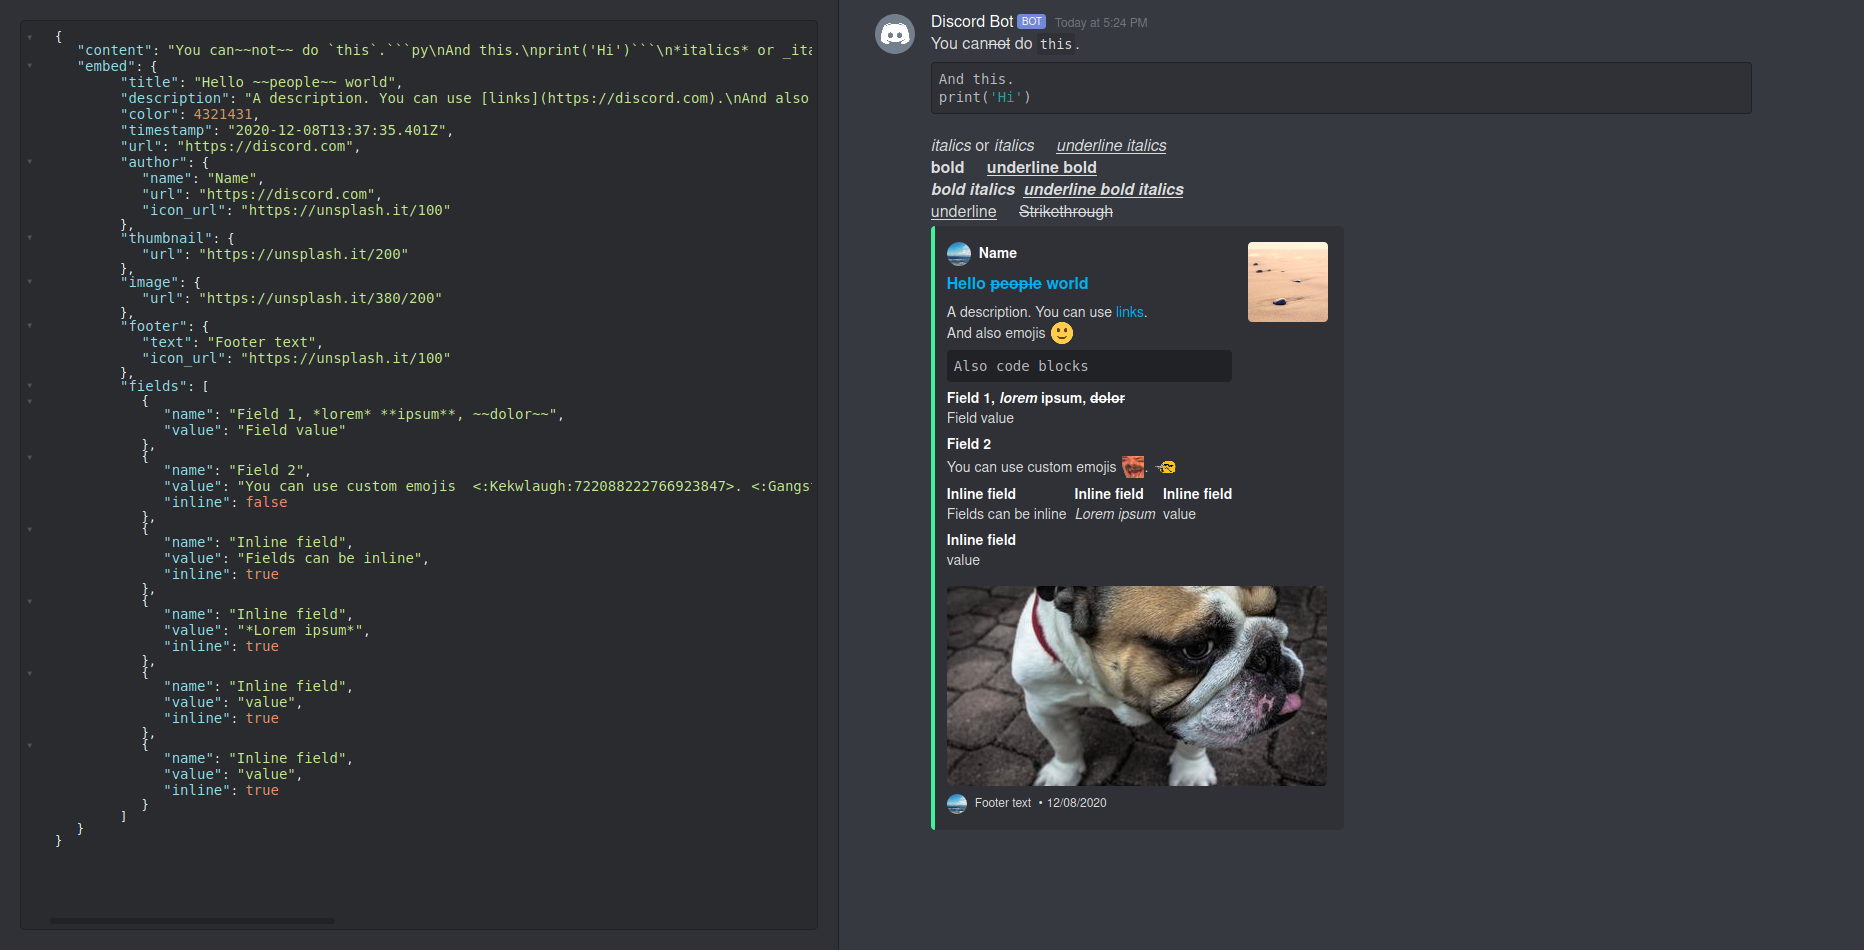
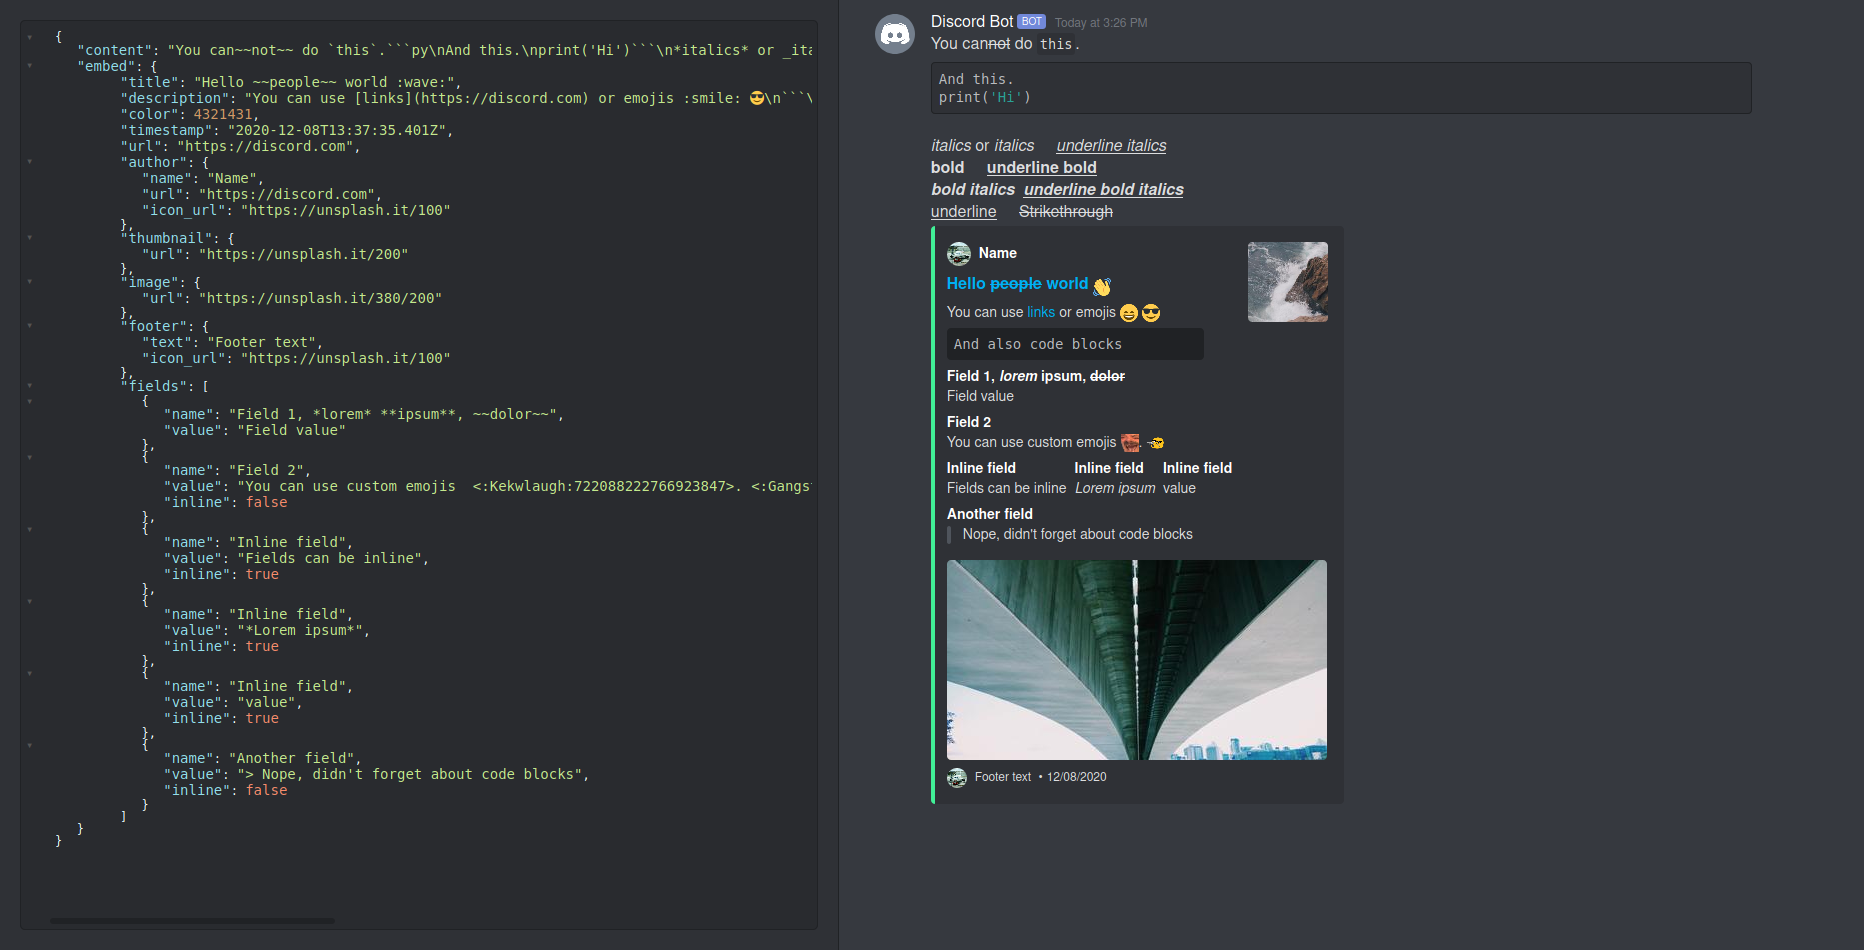
Changed layout image, removed emoticons

diff --git a/assets/js/index.js b/assets/js/index.js
@@ -42,10 +42,7 @@ window.onload = () => {
             if (opts.inlineBlock) txt = txt.replace(/\`([^\`]+?)\`|\`\`([^\`]+?)\`\`|\`\`\`((?:\n|.)+?)\`\`\`/g, (m, x, y, z) => x ? `<code class="inline">${x}</code>` : y ? `<code class="inline">${y}</code>` : z ? `<code class="inline">${z}</code>` : m);
             else txt = txt.replace(/\`\`\`(\w{1,15})?\n((?:\n|.)+?)\`\`\`|\`\`(.+?)\`\`(?!\`)|\`([^\`]+?)\`/g, (m, w, x, y, z) => w && x ? `<pre><code class="${w}">${x}</code></pre>` : x ? `<pre><code class="hljs nohighlight">${x}</code></pre>` : y || z ? `<code class="inline">${y || z}</code>` : m);
             if (opts.inEmbed) txt = txt.replace(/\[([^\[\]]+)\]\((.+?)\)/g, `<a title="$1" target="_blank" class="anchor" href="$2">$1</a>`);
-            if (opts.replaceEmojis) {
-                txt = txt.replace(/(?<!code(?: \w+=".+")?>[^>]+)(?<!\/[^\s"]+?):((?!\/)\w+):/g, (match, x) => x && emojis[x] ? emojis[x] : match);
-                !opts.noEmoticons && Object.keys(emoticons).forEach(e => txt = txt.replace(new RegExp(`(?<=^|\\s)${regEscape(e)}(?=$|\\s)`, 'g'), emoticons[e]));
-            }
+            if (opts.replaceEmojis) txt = txt.replace(/(?<!code(?: \w+=".+")?>[^>]+)(?<!\/[^\s"]+?):((?!\/)\w+):/g, (match, x) => x && emojis[x] ? emojis[x] : match);
             txt = txt
                 .replace(/(?<=\n|^)\s*>\s+([^\n]+)/g, '<div class="blockquote"><div class="blockquoteDivider"></div><blockquote>$1</blockquote></div>')
                 .replace(/\n/g, '<br>');
@@ -82,7 +79,7 @@ window.onload = () => {
                 content.innerHTML = data.content ? markup(data.content, { replaceEmojis: true }) : '';
                 if (data.embed) {
                     let e = data.embed;
-                    if (e.title) display(embedTitle, markup(`${e.url ? '<a class="anchor" target="_blank" href="' + url(e.url) + '">' + e.title + '</a>' : e.title}`, { replaceEmojis: true, noEmoticons: true, inlineBlock: true }));
+                    if (e.title) display(embedTitle, markup(`${e.url ? '<a class="anchor" target="_blank" href="' + url(e.url) + '">' + e.title + '</a>' : e.title}`, { replaceEmojis: true, inlineBlock: true }));
                     else hide(embedTitle);
                     if (e.description) display(embedDescription, markup(e.description, { inEmbed: true, replaceEmojis: true }));
                     else hide(embedDescription);
@@ -133,7 +130,7 @@ window.onload = () => {
                     } else hide(fields);
                     embed.classList.remove('empty');
                     let re = /"((icon_)?url")(: *)("(?!https?:\/\/).+?")/g.exec(editor.getValue())
-                    if (re) error(`URLs should start with <code>https://</code> or <code>http://</code> on this line <span class="inline full">${makeShort(re[0], 30, 600)}</span>`, true);
+                    if (re) error(`URL should start with <code>https://</code> or <code>http://</code> on this line <span class="inline full">${makeShort(re[0], 30, 600)}</span>`, true);
                     else notif.animate({ opacity: '0', bottom: '-50px', offset: 1 }, { easing: 'ease', duration: 500 }).onfinish = () => notif.style.removeProperty('display');
                     twemoji.parse(msgEmbed);
                 }

diff --git a/index.html b/index.html
@@ -23,7 +23,8 @@
         <script src="https://unpkg.com/jsonlint@1.6.3/web/jsonlint.js"></script>
         <link rel="stylesheet" href="https://cdnjs.cloudflare.com/ajax/libs/codemirror/5.58.3/addon/lint/lint.min.css" />
         <script src="https://cdnjs.cloudflare.com/ajax/libs/codemirror/5.58.3/addon/lint/lint.min.js"></script>
-        <script src="https://glitchii.github.io/embedbuilder/assets/js/components.js"></script>
+        <!-- <script src="https://glitchii.github.io/embedbuilder/assets/js/components.js"></script> -->
+        <script src="http://localhost:5500/assets/js/components.js"></script>
         <script src="./assets/js/index.js"></script>
     </head>
     <body>
@@ -32,10 +33,10 @@
                 <div class="top item">
                     <textarea style="display: none;">
 {
-   "content": "You can~~not~~ do `this`.```\nAnd :laughing:this.\nprint('Hi') :) ```\n*italics* or _italics_     __*underline italics*__\n**bold**     __**underline bold**__\n***bold italics***  __***underline bold italics***__\n__underline__     ~~Strikethrough~~\n> Hi",
+   "content": "You can~~not~~ do `this`.```py\nAnd this.\nprint('Hi')```\n*italics* or _italics_     __*underline italics*__\n**bold**     __**underline bold**__\n***bold italics***  __***underline bold italics***__\n__underline__     ~~Strikethrough~~",
    "embed": {
          "title": "Hello ~~people~~ world :wave:",
-         "description": "You can use [links](https://discord.com), emojis 😎 :smile:, emoticons :-)\n```\nAlso code blocks```",
+         "description": "You can use [links](https://discord.com) or emojis :smile: 😎\n```\nAnd also code blocks```",
          "color": 4321431,
          "timestamp": "2020-12-08T13:37:35.401Z",
          "url": "https://discord.com",

diff --git a/assets/js/components.js b/assets/js/components.js
@@ -1,59 +1,4 @@
-var emoticons = {
-    ">=-(": "😠",
-    "=\")": "😊",
-    "=-\")": "😊",
-    "<\\3": "💔",
-    "=-/": "😕",
-    ":'(": "😢",
-    ":'-(": "😢",
-    ":,(": "😢",
-    ":,-(": "cr😢y",
-    "='(": "😢",
-    "='-(": "😢",
-    "=,(": "😢",
-    "=,-(": "😢",
-    "=-(": "😦",
-    "♡": "heart❤",
-    "]=-(": "👿",
-    "0=-)": "😇",
-    ":')": "😂",
-    ":'-)": "😂",
-    ":,)": "😂",
-    ":,-)": "😂",
-    ":'D": "😂",
-    ":'-D": "😂",
-    ":,D": "😂",
-    ":,-D": "😂",
-    "=')": "😂",
-    "='-)": "😂",
-    "=,)": "😂",
-    "=,-)": "😂",
-    "='D": "😂",
-    "='-D": "😂",
-    "=-*": "😗",
-    "X-)": "😆",
-    "=-|": "😐",
-    "=-O": "😮",
-    "=-@": "😡",
-    "=-D": "😄",
-    ":)": "🙂",
-    ":-)": "🙂",
-    "=-)": "🙂",
-    "]=-)": "😈",
-    ":,'(": "😭",
-    ":,'-(": "😭",
-    ";(": "😭",
-    ";-(": "😭",
-    "=,'(": "😭",
-    "=,'-(": "😭",
-    "=-P": "😛",
-    "B-)": "😎",
-    ",=-(": "😓",
-    ",=-)": "😅",
-    "=-$": "😒",
-    ";)": "😉",
-    ";-)": "😉"
-}, emojis = {
+var emojis = {
     "open_hands": "👐",
     "open_hands_tone1": "👐🏻",
     "open_hands_tone2": "👐🏼",
